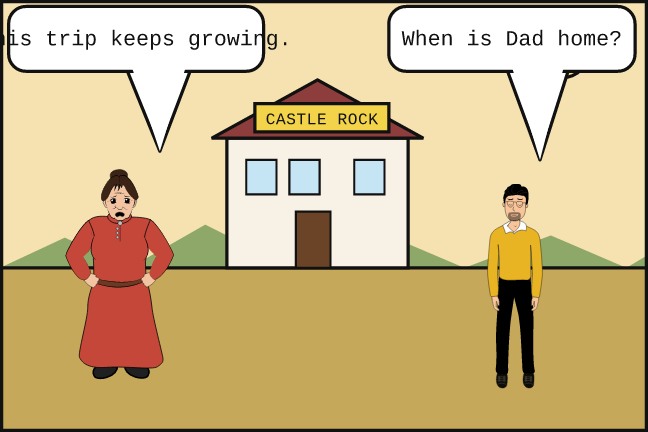
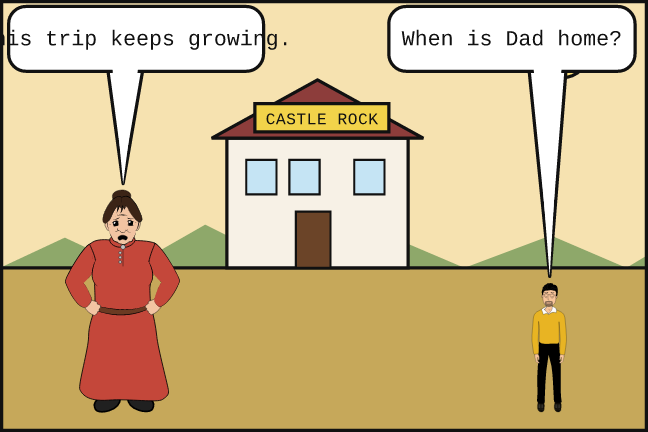
Scale Tad down and redraw Cujo as a St. Bernard.
Tad stands at about 58 percent of Donna's height on the same ground line. Scene 6 puts them inside the Pinto, and the dog is a heavy white St. Bernard in friendly, bitten, and menacing versions.

Changed region(s): [[0.0926, 0.1505, 0.3086, 0.963], [0.7407, 0.1505, 0.8951, 0.963], [0.216, 0.7523, 0.2469, 0.8125]]

diff --git a/_includes/comicbook-cujo.html b/_includes/comicbook-cujo.html
@@ -31,18 +31,18 @@
   <rect x="236" y="96" width="124" height="26" fill="#f2d34a" stroke="#111" stroke-width="3"/>
   <text x="298" y="115" font-family="Bangers, Impact, sans-serif" font-size="15" fill="#111" text-anchor="middle" letter-spacing="0.5">CASTLE ROCK</text>
 </g>
-<image href="{{ '/assets/comics/cujo/p1-donna.svg' | relative_url }}" x="4" y="128" width="210" height="252"/>
-<image href="{{ '/assets/comics/cujo/p1-tad.svg' | relative_url }}" x="392" y="158" width="176" height="211"/>
+<image href="{{ '/assets/comics/cujo/p1-donna.svg' | relative_url }}" x="0" y="145" width="223" height="268"/>
+<image href="{{ '/assets/comics/cujo/p1-tad.svg' | relative_url }}" x="455" y="254" width="111" height="134"/>
 <g class="bubble">
-<path d="M118,66 L148,140 L176,66 Z" fill="#fff" stroke="#111" stroke-width="3" stroke-linejoin="round"/>
+<path d="M100,66 L114,170 L132,66 Z" fill="#fff" stroke="#111" stroke-width="3" stroke-linejoin="round"/>
 <rect x="8" y="6" width="236" height="60" rx="16" fill="#fff" stroke="#111" stroke-width="3"/>
-<path d="M122,62 L148,140 L172,62 Z" fill="#fff"/>
+<path d="M104,62 L114,170 L128,62 Z" fill="#fff"/>
 <text x="126" y="42" font-family="'Patrick Hand', 'Comic Neue', 'Comic Sans MS', cursive" font-size="20" fill="#111" text-anchor="middle">This trip keeps growing.</text>
 </g>
 <g class="bubble">
-<path d="M470,66 L500,148 L526,66 Z" fill="#fff" stroke="#111" stroke-width="3" stroke-linejoin="round"/>
+<path d="M490,66 L509,256 L524,66 Z" fill="#fff" stroke="#111" stroke-width="3" stroke-linejoin="round"/>
 <rect x="360" y="6" width="228" height="60" rx="16" fill="#fff" stroke="#111" stroke-width="3"/>
-<path d="M474,62 L500,148 L522,62 Z" fill="#fff"/>
+<path d="M494,62 L509,256 L520,62 Z" fill="#fff"/>
 <text x="474" y="42" font-family="'Patrick Hand', 'Comic Neue', 'Comic Sans MS', cursive" font-size="20" fill="#111" text-anchor="middle">When is Dad home?</text>
 </g>
 <rect x="1.5" y="1.5" width="597" height="397" fill="none" stroke="#111" stroke-width="3"/></svg>
@@ -59,25 +59,25 @@
 <path d="M0,250 L80,228 L150,250 L240,220 L330,250 L420,224 L520,250 L600,232 L600,250 Z" fill="#7ea86a"/>
 <line x1="0" y1="250" x2="600" y2="250" stroke="#111" stroke-width="3"/>
 <g stroke="#3a4a32" stroke-width="3" fill="none" stroke-linecap="round">
-  <path d="M520,250 L520,168"/>
-  <path d="M520,196 L498,176"/>
-  <path d="M520,206 L546,180"/>
-  <path d="M520,220 L504,210"/>
-  <path d="M520,220 L538,208"/>
+  <path d="M28,250 L28,190"/>
+  <path d="M28,210 L10,194"/>
+  <path d="M28,218 L48,198"/>
+  <path d="M28,230 L14,222"/>
+  <path d="M28,230 L44,220"/>
 </g>
-<image href="{{ '/assets/comics/cujo/dog-friendly.svg' | relative_url }}" x="168" y="168" width="250" height="181"/>
-<image href="{{ '/assets/comics/cujo/p2-donna.svg' | relative_url }}" x="0" y="128" width="200" height="240"/>
-<image href="{{ '/assets/comics/cujo/p2-tad.svg' | relative_url }}" x="420" y="162" width="168" height="202"/>
+<image href="{{ '/assets/comics/cujo/dog-friendly.svg' | relative_url }}" x="108" y="139" width="386" height="245"/>
+<image href="{{ '/assets/comics/cujo/p2-donna.svg' | relative_url }}" x="0" y="145" width="223" height="268"/>
+<image href="{{ '/assets/comics/cujo/p2-tad.svg' | relative_url }}" x="490" y="254" width="112" height="134"/>
 <g class="bubble">
-<path d="M110,66 L140,138 L166,66 Z" fill="#fff" stroke="#111" stroke-width="3" stroke-linejoin="round"/>
+<path d="M96,66 L114,170 L130,66 Z" fill="#fff" stroke="#111" stroke-width="3" stroke-linejoin="round"/>
 <rect x="8" y="6" width="200" height="60" rx="16" fill="#fff" stroke="#111" stroke-width="3"/>
-<path d="M114,62 L140,138 L162,62 Z" fill="#fff"/>
+<path d="M100,62 L114,170 L126,62 Z" fill="#fff"/>
 <text x="108" y="42" font-family="'Patrick Hand', 'Comic Neue', 'Comic Sans MS', cursive" font-size="20" fill="#111" text-anchor="middle">Good dog. Easy.</text>
 </g>
 <g class="bubble">
-<path d="M490,66 L518,146 L540,66 Z" fill="#fff" stroke="#111" stroke-width="3" stroke-linejoin="round"/>
+<path d="M520,66 L544,256 L548,66 Z" fill="#fff" stroke="#111" stroke-width="3" stroke-linejoin="round"/>
 <rect x="392" y="6" width="196" height="60" rx="16" fill="#fff" stroke="#111" stroke-width="3"/>
-<path d="M494,62 L518,146 L536,62 Z" fill="#fff"/>
+<path d="M524,62 L544,256 L546,62 Z" fill="#fff"/>
 <text x="490" y="42" font-family="'Patrick Hand', 'Comic Neue', 'Comic Sans MS', cursive" font-size="20" fill="#111" text-anchor="middle">He likes me!</text>
 </g>
 <rect x="1.5" y="1.5" width="597" height="397" fill="none" stroke="#111" stroke-width="3"/></svg>
@@ -100,17 +100,17 @@
   <path d="M70,210 L52,198"/>
   <path d="M70,210 L90,196"/>
 </g>
-<image href="{{ '/assets/comics/cujo/dog-bitten.svg' | relative_url }}" x="150" y="150" width="300" height="217"/>
-<g transform="translate(430,118)">
-  <ellipse cx="0" cy="0" rx="10" ry="6" fill="#4a3b55" stroke="#111" stroke-width="2"/>
-  <path d="M-8,-2 L-28,-16 L-18,4 Z" fill="#5c4a68" stroke="#111" stroke-width="2" stroke-linejoin="round"/>
-  <path d="M8,-2 L28,-16 L18,4 Z" fill="#5c4a68" stroke="#111" stroke-width="2" stroke-linejoin="round"/>
-  <circle cx="-3" cy="-1" r="1.4" fill="#ffe27a" stroke="none"/>
-  <circle cx="3" cy="-1" r="1.4" fill="#ffe27a" stroke="none"/>
+<image href="{{ '/assets/comics/cujo/dog-bitten.svg' | relative_url }}" x="80" y="112" width="440" height="280"/>
+<g transform="translate(318,198)">
+  <ellipse cx="0" cy="0" rx="11" ry="7" fill="#4a3b55" stroke="#111" stroke-width="2"/>
+  <path d="M-8,-2 L-30,-18 L-16,6 Z" fill="#5c4a68" stroke="#111" stroke-width="2" stroke-linejoin="round"/>
+  <path d="M8,-2 L30,-18 L16,6 Z" fill="#5c4a68" stroke="#111" stroke-width="2" stroke-linejoin="round"/>
+  <circle cx="-3" cy="-1" r="1.6" fill="#ffe27a" stroke="none"/>
+  <circle cx="3" cy="-1" r="1.6" fill="#ffe27a" stroke="none"/>
 </g>
 <g>
-  <rect x="392" y="62" width="86" height="32" fill="#fff" stroke="#111" stroke-width="3"/>
-  <text x="435" y="84" font-family="Bangers, Impact, sans-serif" font-size="20" fill="#111" text-anchor="middle" letter-spacing="1">FLIT</text>
+  <rect x="360" y="148" width="86" height="32" fill="#fff" stroke="#111" stroke-width="3"/>
+  <text x="403" y="170" font-family="Bangers, Impact, sans-serif" font-size="20" fill="#111" text-anchor="middle" letter-spacing="1">FLIT</text>
 </g>
 <rect x="1.5" y="1.5" width="597" height="397" fill="none" stroke="#111" stroke-width="3"/></svg>
 </figure>
@@ -125,7 +125,7 @@
 <rect y="236" width="600" height="164" fill="#c9845a"/>
 <rect y="292" width="600" height="36" fill="#8a7360"/>
 <line x1="0" y1="248" x2="600" y2="248" stroke="#111" stroke-width="3"/>
-<g transform="translate(188,188)">
+<g transform="translate(198,250)">
   <rect y="36" width="210" height="48" rx="10" fill="#d4783a" stroke="#111" stroke-width="3"/>
   <path d="M36,36 L62,8 H150 L176,36 Z" fill="#f3e2c0" stroke="#111" stroke-width="3"/>
   <rect x="70" y="14" width="36" height="20" fill="#c5e4f4" stroke="#111" stroke-width="2"/>
@@ -135,18 +135,18 @@
   <circle cx="48" cy="86" r="5" fill="#9a9aa0" stroke="none"/>
   <circle cx="164" cy="86" r="5" fill="#9a9aa0" stroke="none"/>
 </g>
-<image href="{{ '/assets/comics/cujo/p4-donna.svg' | relative_url }}" x="0" y="124" width="200" height="240"/>
-<image href="{{ '/assets/comics/cujo/p4-tad.svg' | relative_url }}" x="420" y="158" width="170" height="204"/>
+<image href="{{ '/assets/comics/cujo/p4-donna.svg' | relative_url }}" x="0" y="145" width="223" height="268"/>
+<image href="{{ '/assets/comics/cujo/p4-tad.svg' | relative_url }}" x="478" y="254" width="112" height="134"/>
 <g class="bubble">
-<path d="M112,66 L142,136 L170,66 Z" fill="#fff" stroke="#111" stroke-width="3" stroke-linejoin="round"/>
+<path d="M100,66 L114,170 L130,66 Z" fill="#fff" stroke="#111" stroke-width="3" stroke-linejoin="round"/>
 <rect x="8" y="6" width="248" height="60" rx="16" fill="#fff" stroke="#111" stroke-width="3"/>
-<path d="M116,62 L142,136 L166,62 Z" fill="#fff"/>
+<path d="M104,62 L114,170 L126,62 Z" fill="#fff"/>
 <text x="132" y="28" font-family="'Patrick Hand', 'Comic Neue', 'Comic Sans MS', cursive" font-size="19" fill="#111" text-anchor="middle"><tspan x="132" dy="0">Hold on till</tspan><tspan x="132" dy="22">the garage.</tspan></text>
 </g>
 <g class="bubble">
-<path d="M492,66 L520,144 L544,66 Z" fill="#fff" stroke="#111" stroke-width="3" stroke-linejoin="round"/>
+<path d="M510,66 L532,256 L534,66 Z" fill="#fff" stroke="#111" stroke-width="3" stroke-linejoin="round"/>
 <rect x="392" y="6" width="196" height="60" rx="16" fill="#fff" stroke="#111" stroke-width="3"/>
-<path d="M496,62 L520,144 L540,62 Z" fill="#fff"/>
+<path d="M514,62 L532,256 L536,62 Z" fill="#fff"/>
 <text x="490" y="42" font-family="'Patrick Hand', 'Comic Neue', 'Comic Sans MS', cursive" font-size="20" fill="#111" text-anchor="middle">It sounds sick.</text>
 </g>
 <rect x="1.5" y="1.5" width="597" height="397" fill="none" stroke="#111" stroke-width="3"/></svg>
@@ -168,7 +168,7 @@
   <rect x="36" y="132" width="126" height="26" fill="#f2d34a" stroke="#111" stroke-width="3"/>
   <text x="99" y="151" font-family="Bangers, Impact, sans-serif" font-size="16" fill="#111" text-anchor="middle" letter-spacing="1">GARAGE</text>
 </g>
-<g transform="translate(250,196)">
+<g transform="translate(345,255)">
   <rect y="28" width="168" height="40" rx="8" fill="#d4783a" stroke="#111" stroke-width="3"/>
   <path d="M28,28 L48,6 H120 L140,28 Z" fill="#f3e2c0" stroke="#111" stroke-width="3"/>
   <path d="M46,8 L78,-8 H112 L128,8" fill="none" stroke="#111" stroke-width="3"/>
@@ -177,18 +177,18 @@
   <circle cx="38" cy="70" r="12" fill="#2a2a2e" stroke="#111" stroke-width="3"/>
   <circle cx="128" cy="70" r="12" fill="#2a2a2e" stroke="#111" stroke-width="3"/>
 </g>
-<image href="{{ '/assets/comics/cujo/p5-donna.svg' | relative_url }}" x="188" y="124" width="190" height="228"/>
-<image href="{{ '/assets/comics/cujo/p5-tad.svg' | relative_url }}" x="420" y="158" width="168" height="202"/>
+<image href="{{ '/assets/comics/cujo/p5-donna.svg' | relative_url }}" x="155" y="145" width="223" height="268"/>
+<image href="{{ '/assets/comics/cujo/p5-tad.svg' | relative_url }}" x="500" y="254" width="111" height="134"/>
 <g class="bubble">
-<path d="M250,66 L280,132 L306,66 Z" fill="#fff" stroke="#111" stroke-width="3" stroke-linejoin="round"/>
+<path d="M250,66 L269,170 L290,66 Z" fill="#fff" stroke="#111" stroke-width="3" stroke-linejoin="round"/>
 <rect x="176" y="6" width="200" height="60" rx="16" fill="#fff" stroke="#111" stroke-width="3"/>
-<path d="M254,62 L280,132 L302,62 Z" fill="#fff"/>
+<path d="M254,62 L269,170 L286,62 Z" fill="#fff"/>
 <text x="276" y="42" font-family="'Patrick Hand', 'Comic Neue', 'Comic Sans MS', cursive" font-size="20" fill="#111" text-anchor="middle">It died. Out here.</text>
 </g>
 <g class="bubble">
-<path d="M490,66 L518,146 L542,66 Z" fill="#fff" stroke="#111" stroke-width="3" stroke-linejoin="round"/>
+<path d="M530,66 L554,256 L558,66 Z" fill="#fff" stroke="#111" stroke-width="3" stroke-linejoin="round"/>
 <rect x="388" y="6" width="200" height="60" rx="16" fill="#fff" stroke="#111" stroke-width="3"/>
-<path d="M494,62 L518,146 L538,62 Z" fill="#fff"/>
+<path d="M534,62 L554,256 L560,62 Z" fill="#fff"/>
 <text x="488" y="42" font-family="'Patrick Hand', 'Comic Neue', 'Comic Sans MS', cursive" font-size="20" fill="#111" text-anchor="middle">Can we go back?</text>
 </g>
 <rect x="1.5" y="1.5" width="597" height="397" fill="none" stroke="#111" stroke-width="3"/></svg>
@@ -198,40 +198,51 @@
         <div class="numbertext">6 / 6</div>
         <figure class="cj-panel" id="cj-panel-6" data-scene="6">
 <figcaption class="cj-cap"><span class="cj-num" aria-hidden="true">6</span><span>They are stuck in the car as the dog appears.</span></figcaption>
-<svg class="cj-art" viewBox="0 0 600 400" role="img" aria-labelledby="cj-t6" preserveAspectRatio="xMidYMid meet"><title id="cj-t6">Donna and Tad sit in the stopped car while the dog stands in the farmyard</title>
+<svg class="cj-art" viewBox="0 0 600 400" role="img" aria-labelledby="cj-t6" preserveAspectRatio="xMidYMid meet"><title id="cj-t6">Donna and Tad sit inside the stopped car while the dog stands outside</title>
+<defs>
+  <clipPath id="cj6-donna-win"><rect x="114" y="150" width="70" height="96"/></clipPath>
+  <clipPath id="cj6-tad-win"><rect x="214" y="186" width="50" height="68"/></clipPath>
+</defs>
 <rect width="600" height="400" fill="#f0d2a0"/>
-<circle cx="64" cy="40" r="18" fill="#ffe27a" stroke="#111" stroke-width="3"/>
-<rect y="250" width="600" height="150" fill="#c6a15a"/>
-<line x1="0" y1="250" x2="600" y2="250" stroke="#111" stroke-width="3"/>
+<circle cx="520" cy="36" r="18" fill="#ffe27a" stroke="#111" stroke-width="3"/>
+<rect y="268" width="600" height="132" fill="#c6a15a"/>
+<line x1="0" y1="268" x2="600" y2="268" stroke="#111" stroke-width="3"/>
 <g>
-  <rect x="430" y="132" width="140" height="118" fill="#c46a4a" stroke="#111" stroke-width="3"/>
-  <path d="M418,132 L500,86 L582,132 Z" fill="#6b4428" stroke="#111" stroke-width="3"/>
-  <rect x="468" y="176" width="64" height="74" fill="#5a4636" stroke="#111" stroke-width="2"/>
+  <rect x="500" y="168" width="78" height="100" fill="#c46a4a" stroke="#111" stroke-width="3"/>
+  <path d="M488,168 L539,124 L590,168 Z" fill="#6b4428" stroke="#111" stroke-width="3"/>
 </g>
 <g>
-  <rect x="8" y="210" width="300" height="70" rx="12" fill="#d4783a" stroke="#111" stroke-width="3"/>
-  <path d="M48,210 L82,168 H210 L248,210 Z" fill="#f3e2c0" stroke="#111" stroke-width="3"/>
-  <rect x="92" y="176" width="50" height="28" fill="#d7ecf6" stroke="#111" stroke-width="2"/>
-  <rect x="154" y="176" width="50" height="28" fill="#d7ecf6" stroke="#111" stroke-width="2"/>
-  <circle cx="64" cy="282" r="16" fill="#2a2a2e" stroke="#111" stroke-width="3"/>
-  <circle cx="236" cy="282" r="16" fill="#2a2a2e" stroke="#111" stroke-width="3"/>
-  <circle cx="64" cy="282" r="6" fill="#9a9aa0" stroke="none"/>
-  <circle cx="236" cy="282" r="6" fill="#9a9aa0" stroke="none"/>
+  <path d="M86,200 L124,128 H248 L300,176 V248 H36 V228 Z" fill="#d4783a" stroke="#111" stroke-width="3"/>
+  <rect x="36" y="210" width="270" height="92" rx="12" fill="#d4783a" stroke="#111" stroke-width="3"/>
+  <rect x="112" y="148" width="76" height="100" rx="3" fill="#d7ecf6" stroke="#111" stroke-width="3"/>
+  <rect x="210" y="182" width="58" height="74" rx="3" fill="#d7ecf6" stroke="#111" stroke-width="3"/>
 </g>
-<image href="{{ '/assets/comics/cujo/p6-donna.svg' | relative_url }}" x="4" y="128" width="200" height="240"/>
-<image href="{{ '/assets/comics/cujo/p6-tad.svg' | relative_url }}" x="168" y="156" width="168" height="202"/>
-<image href="{{ '/assets/comics/cujo/dog-menace.svg' | relative_url }}" x="348" y="178" width="240" height="174"/>
+<image href="{{ '/assets/comics/cujo/p6-donna.svg' | relative_url }}" x="5" y="97" width="283" height="340" clip-path="url(#cj6-donna-win)"/>
+<image href="{{ '/assets/comics/cujo/p6-tad.svg' | relative_url }}" x="169" y="179" width="141" height="169" clip-path="url(#cj6-tad-win)"/>
+<g fill="none" stroke="#111" stroke-width="3">
+  <rect x="112" y="148" width="76" height="100" rx="3"/>
+  <rect x="210" y="182" width="58" height="74" rx="3"/>
+  <line x1="198" y1="160" x2="198" y2="248"/>
+  <line x1="248" y1="248" x2="270" y2="236"/>
+</g>
+<circle cx="92" cy="308" r="22" fill="#2a2a2e" stroke="#111" stroke-width="3"/>
+<circle cx="92" cy="308" r="8" fill="#9a9aa0" stroke="none"/>
+<circle cx="250" cy="308" r="22" fill="#2a2a2e" stroke="#111" stroke-width="3"/>
+<circle cx="250" cy="308" r="8" fill="#9a9aa0" stroke="none"/>
+<rect x="70" y="248" width="22" height="8" rx="2" fill="#f3e2c0" stroke="#111" stroke-width="2"/>
+<rect x="230" y="248" width="22" height="8" rx="2" fill="#f3e2c0" stroke="#111" stroke-width="2"/>
+<image href="{{ '/assets/comics/cujo/dog-menace.svg' | relative_url }}" x="312" y="163" width="275" height="175" transform="translate(899,0) scale(-1,1)"/>
 <g class="bubble">
-<path d="M90,66 L118,140 L146,66 Z" fill="#fff" stroke="#111" stroke-width="3" stroke-linejoin="round"/>
-<rect x="8" y="6" width="196" height="60" rx="16" fill="#fff" stroke="#111" stroke-width="3"/>
-<path d="M94,62 L118,140 L142,62 Z" fill="#fff"/>
-<text x="106" y="42" font-family="'Patrick Hand', 'Comic Neue', 'Comic Sans MS', cursive" font-size="18" fill="#111" text-anchor="middle">Stay in the car.</text>
+<path d="M130,66 L149,142 L166,66 Z" fill="#fff" stroke="#111" stroke-width="3" stroke-linejoin="round"/>
+<rect x="8" y="6" width="176" height="60" rx="16" fill="#fff" stroke="#111" stroke-width="3"/>
+<path d="M134,62 L149,142 L162,62 Z" fill="#fff"/>
+<text x="96" y="42" font-family="'Patrick Hand', 'Comic Neue', 'Comic Sans MS', cursive" font-size="18" fill="#111" text-anchor="middle">Stay in the car.</text>
 </g>
 <g class="bubble">
-<path d="M300,66 L328,150 L356,66 Z" fill="#fff" stroke="#111" stroke-width="3" stroke-linejoin="round"/>
-<rect x="248" y="6" width="188" height="60" rx="16" fill="#fff" stroke="#111" stroke-width="3"/>
-<path d="M304,62 L328,150 L352,62 Z" fill="#fff"/>
-<text x="342" y="42" font-family="'Patrick Hand', 'Comic Neue', 'Comic Sans MS', cursive" font-size="18" fill="#111" text-anchor="middle">He's right there.</text>
+<path d="M250,66 L237,178 L274,66 Z" fill="#fff" stroke="#111" stroke-width="3" stroke-linejoin="round"/>
+<rect x="210" y="6" width="188" height="60" rx="16" fill="#fff" stroke="#111" stroke-width="3"/>
+<path d="M254,62 L237,178 L270,62 Z" fill="#fff"/>
+<text x="304" y="42" font-family="'Patrick Hand', 'Comic Neue', 'Comic Sans MS', cursive" font-size="18" fill="#111" text-anchor="middle">He's right there.</text>
 </g>
 <g transform="translate(250,388)">
   <rect x="-214" y="-34" width="208" height="34" fill="#fff" stroke="#111" stroke-width="3" transform="skewX(-12)"/>
